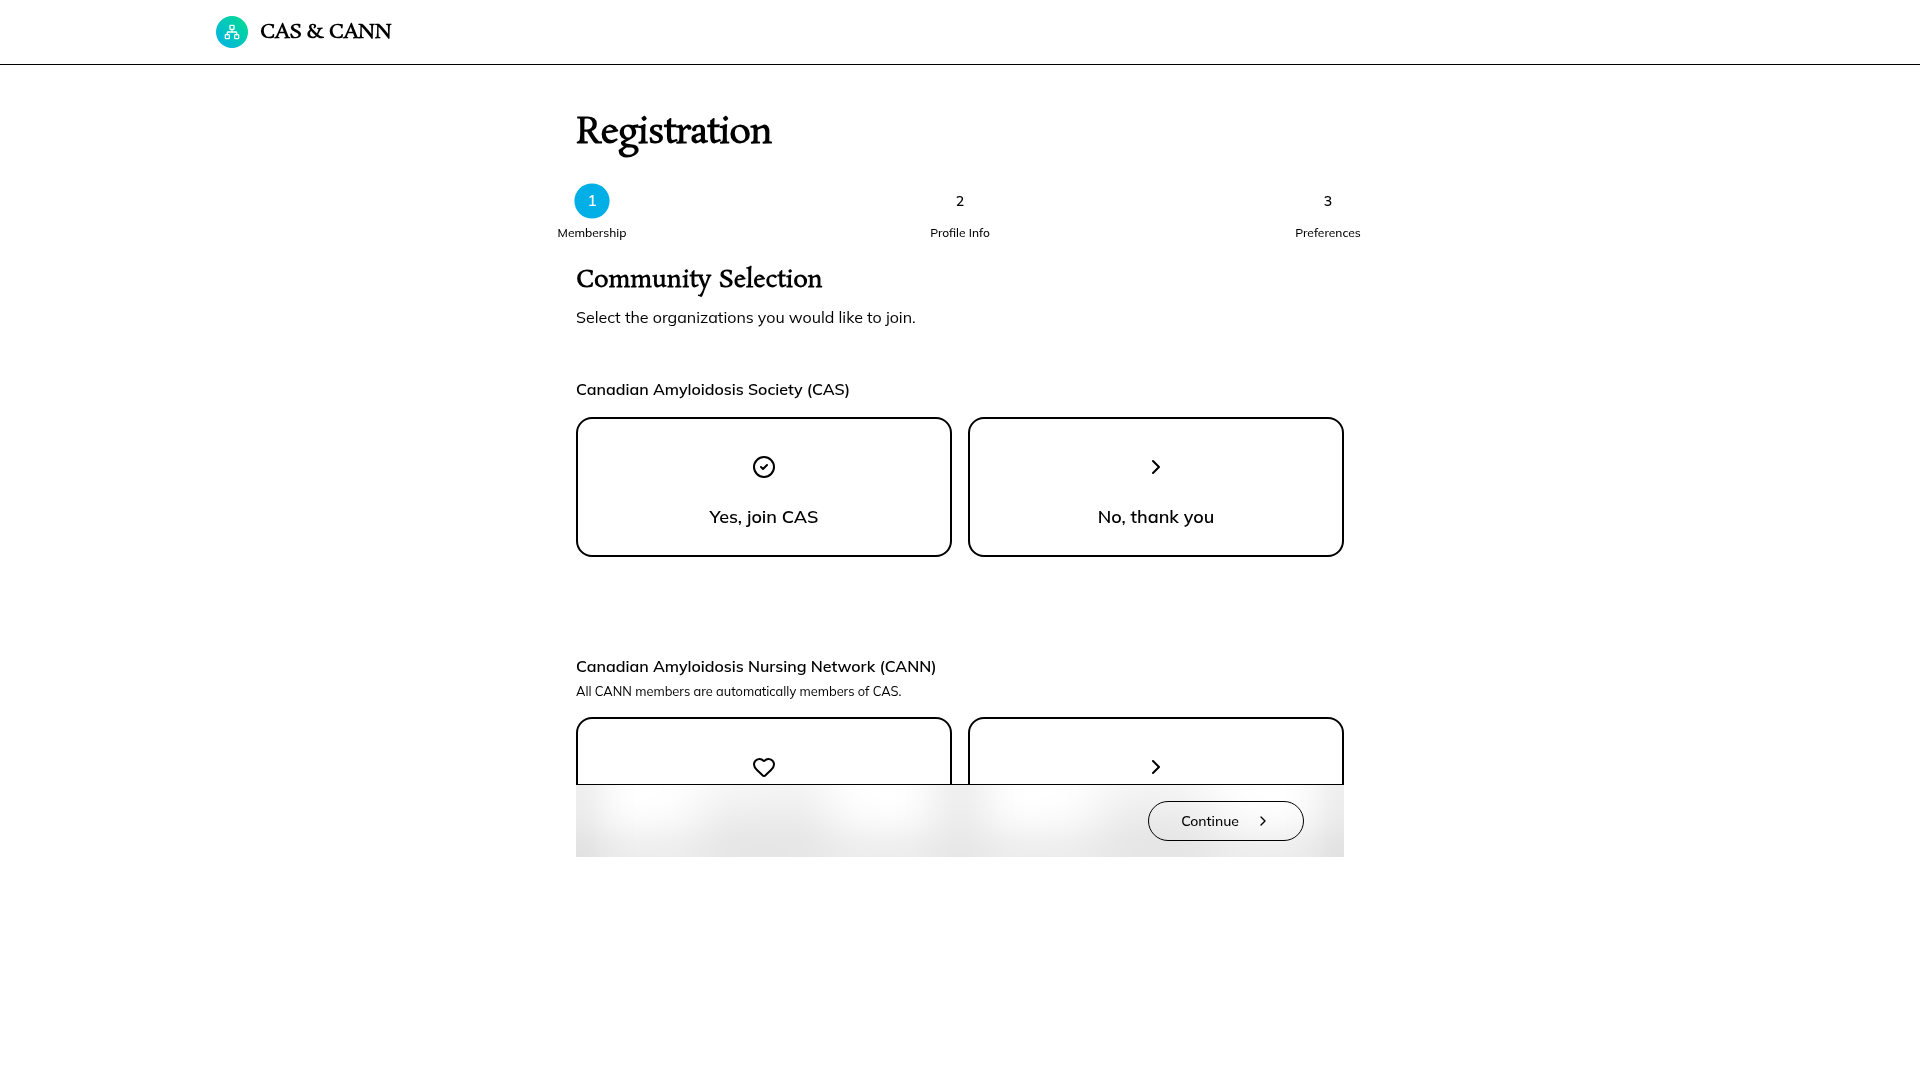
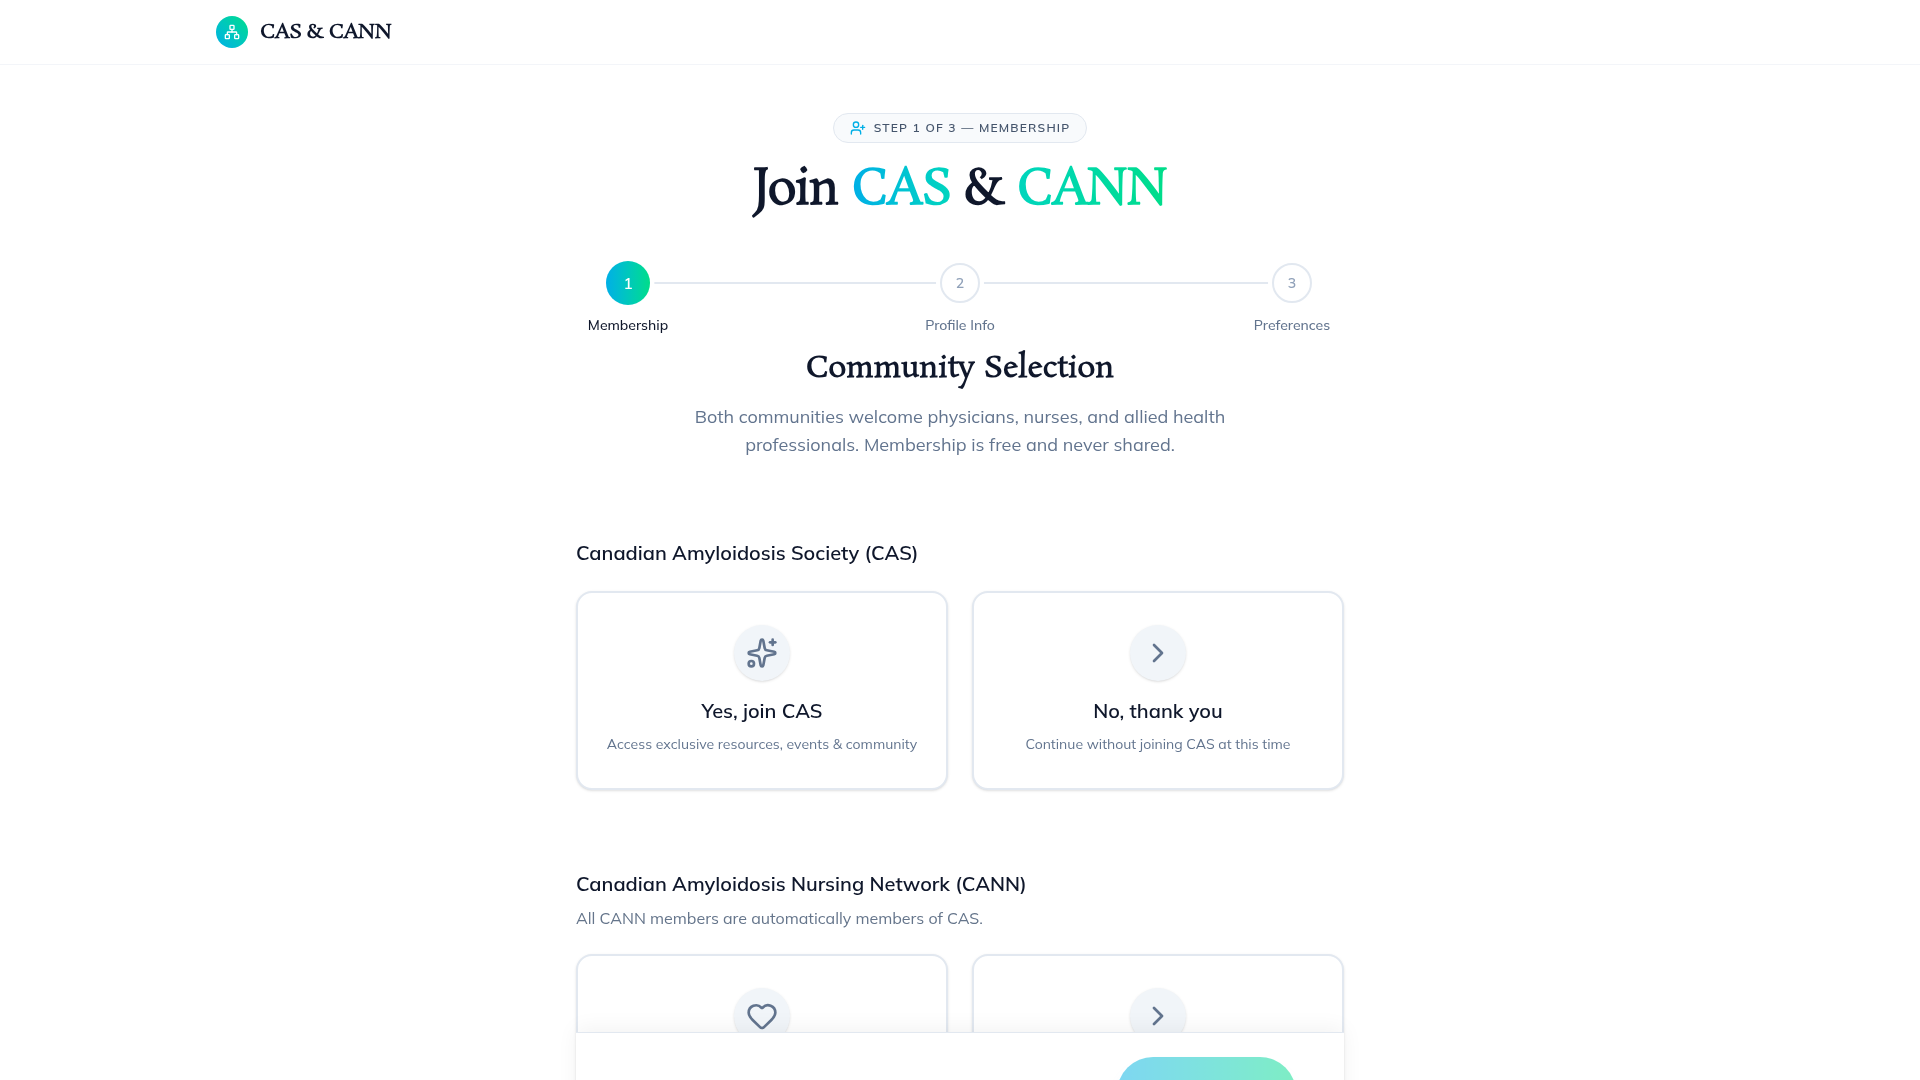
Apply light mode styling to improve visibility and enhance design elements
Force light mode styling and refine card and icon designs in the join CAS & CANN component.

Replit-Commit-Author: Agent
Replit-Commit-Session-Id: ef7bf022-0b3a-4156-9c38-2b98b837c1d1
Replit-Commit-Checkpoint-Type: full_checkpoint
Replit-Commit-Event-Id: ecc744e5-073c-49c3-9316-261ec8fd08b4
Replit-Commit-Screenshot-Url: https://storage.googleapis.com/screenshot-production-us-central1/e9fe007f-c11f-42ca-a1dd-347ccc032e17/ef7bf022-0b3a-4156-9c38-2b98b837c1d1/oIjj7CI
Replit-Helium-Checkpoint-Created: true

diff --git a/artifacts/mockup-sandbox/src/components/mockups/join-cas/Redesigned.tsx b/artifacts/mockup-sandbox/src/components/mockups/join-cas/Redesigned.tsx
@@ -142,12 +142,12 @@ export function Redesigned() {
       <Label
         htmlFor={`${field.name}-${value}`}
         className={cn(
-          "relative flex flex-col items-center p-6 border-2 rounded-2xl cursor-pointer transition-all duration-200 text-center gap-3",
+          "relative flex flex-col items-center py-8 px-6 border-2 rounded-2xl cursor-pointer transition-all duration-300 text-center gap-4",
           isSelected 
             ? brand === 'cann' 
-              ? "border-pink-500 bg-pink-50/50 dark:bg-pink-950/20" 
-              : "border-[#00AFE6] bg-[#00AFE6]/5 dark:bg-[#00AFE6]/10"
-            : "border-muted hover:border-muted-foreground/30 hover:bg-muted/50",
+              ? "border-transparent [background:linear-gradient(to_bottom,rgba(253,242,248,0.9),rgba(253,242,248,0.4))_padding-box,linear-gradient(to_right,#ec4899,#a855f7)_border-box] shadow-md" 
+              : "border-transparent [background:linear-gradient(to_bottom,rgba(230,248,255,0.9),rgba(240,251,255,0.4))_padding-box,linear-gradient(to_right,#00AFE6,#00DD89)_border-box] shadow-md"
+            : "border-slate-200 bg-white hover:border-slate-300 shadow-sm hover:shadow-md",
         )}
       >
         <FormControl>
@@ -155,25 +155,27 @@ export function Redesigned() {
         </FormControl>
         
         <div className={cn(
-          "p-3 rounded-full transition-colors",
+          "w-14 h-14 rounded-full flex items-center justify-center transition-colors shadow-sm",
           isSelected 
-            ? brand === 'cann' ? "bg-pink-100 text-pink-600 dark:bg-pink-900/50" : "bg-[#00AFE6]/10 text-[#00AFE6]"
-            : "bg-muted text-muted-foreground"
+            ? brand === 'cann' ? "bg-gradient-to-tr from-pink-500 to-purple-500 text-white" : "bg-gradient-to-tr from-[#00AFE6] to-[#00DD89] text-white"
+            : "bg-slate-100 text-slate-500"
         )}>
-          <Icon className="w-6 h-6" />
+          <Icon className="w-8 h-8" />
         </div>
         
         <div>
-          <div className="font-semibold text-lg">{title}</div>
-          {description && <div className="text-sm text-muted-foreground mt-1 font-normal">{description}</div>}
+          <div className="font-semibold text-xl text-slate-900">{title}</div>
+          {description && <div className="text-sm text-slate-500 mt-2 font-normal leading-relaxed">{description}</div>}
         </div>
 
         {isSelected && (
           <div className="absolute top-4 right-4">
-            <CheckCircle2 className={cn(
-              "w-5 h-5",
-              brand === 'cann' ? "text-pink-500" : "text-[#00AFE6]"
-            )} />
+            <div className={cn(
+              "rounded-full p-1",
+              brand === 'cann' ? "bg-pink-100 text-pink-500" : "bg-[#00AFE6]/10 text-[#00AFE6]"
+            )}>
+              <CheckCircle2 className="w-5 h-5" />
+            </div>
           </div>
         )}
       </Label>
@@ -181,7 +183,31 @@ export function Redesigned() {
   };
 
   return (
-    <div className="min-h-screen bg-background text-foreground selection:bg-[#00AFE6]/20">
+    <div
+      className="min-h-screen bg-white text-slate-900 selection:bg-[#00AFE6]/20"
+      style={{
+        colorScheme: 'light',
+        ['--background' as any]: '0 0% 100%',
+        ['--foreground' as any]: '222 47% 11%',
+        ['--card' as any]: '0 0% 100%',
+        ['--card-foreground' as any]: '222 47% 11%',
+        ['--muted' as any]: '210 40% 96%',
+        ['--muted-foreground' as any]: '215 16% 47%',
+        ['--border' as any]: '214 32% 91%',
+        ['--input' as any]: '214 32% 91%',
+        ['--ring' as any]: '195 100% 45%',
+        ['--primary' as any]: '195 100% 45%',
+        ['--primary-foreground' as any]: '0 0% 100%',
+        ['--secondary' as any]: '210 40% 96%',
+        ['--secondary-foreground' as any]: '222 47% 11%',
+        ['--accent' as any]: '210 40% 96%',
+        ['--accent-foreground' as any]: '222 47% 11%',
+        ['--destructive' as any]: '0 84% 60%',
+        ['--destructive-foreground' as any]: '0 0% 100%',
+        ['--popover' as any]: '0 0% 100%',
+        ['--popover-foreground' as any]: '222 47% 11%',
+      }}
+    >
       {/* Refined Header */}
       <header className="sticky top-0 z-50 bg-background/80 backdrop-blur-md border-b border-border/40">
         <div className="container mx-auto px-4 sm:px-6 h-16 flex items-center justify-between">
@@ -194,19 +220,25 @@ export function Redesigned() {
         </div>
       </header>
 
-      <main className="container mx-auto px-4 sm:px-6 py-12 pb-32">
+      <main className="container mx-auto px-4 sm:px-6 py-12 pb-48">
         <div className="max-w-3xl mx-auto">
           
           {/* Wizard Header */}
-          <div className="mb-12">
-            <h1 className="text-4xl font-rosarivo font-bold mb-4 tracking-tight">
-              Registration
+          <div className="mb-12 text-center">
+            <div className="inline-flex items-center gap-2 bg-slate-50 border border-slate-200 rounded-full px-4 py-1.5 mb-6">
+              <UserPlus className="w-4 h-4 text-[#00AFE6]" />
+              <span className="text-xs font-semibold uppercase tracking-widest text-slate-600">
+                Step {currentStep + 1} of {activeSteps.length} — {activeSteps[currentStep].title}
+              </span>
+            </div>
+            <h1 className="text-5xl font-rosarivo font-bold mb-4 tracking-tight">
+              Join <span className="bg-gradient-to-r from-[#00AFE6] to-teal-400 bg-clip-text text-transparent">CAS</span> &amp; <span className="bg-gradient-to-r from-teal-400 to-[#00DD89] bg-clip-text text-transparent">CANN</span>
             </h1>
             
             {/* Progress Stepper */}
-            <div className="mt-8">
+            <div className="mt-12 px-8">
               <div className="flex items-center justify-between relative">
-                <div className="absolute left-0 top-1/2 -translate-y-1/2 w-full h-[2px] bg-muted/60" />
+                <div className="absolute left-0 top-1/2 -translate-y-1/2 w-full h-[2px] bg-slate-200" />
                 <div 
                   className="absolute left-0 top-1/2 -translate-y-1/2 h-[2px] bg-gradient-to-r from-[#00AFE6] to-[#00DD89] transition-all duration-500"
                   style={{ width: `${(currentStep / (activeSteps.length - 1)) * 100}%` }}
@@ -217,18 +249,18 @@ export function Redesigned() {
                   const isCompleted = index < currentStep;
                   
                   return (
-                    <div key={step.id} className="relative z-10 flex flex-col items-center gap-2">
+                    <div key={step.id} className="relative z-10 flex flex-col items-center gap-3">
                       <div className={cn(
-                        "w-8 h-8 rounded-full flex items-center justify-center text-sm font-semibold transition-all duration-300 ring-4 ring-background",
-                        isActive ? "bg-[#00AFE6] text-white shadow-md shadow-[#00AFE6]/20 scale-110" : 
+                        "w-10 h-10 rounded-full flex items-center justify-center text-sm font-semibold transition-all duration-300 ring-4 ring-white shadow-sm",
+                        isActive ? "bg-gradient-to-r from-[#00AFE6] to-[#00DD89] text-white scale-110 shadow-[#00AFE6]/25" : 
                         isCompleted ? "bg-[#00DD89] text-white" : 
-                        "bg-muted text-muted-foreground"
+                        "bg-white border-2 border-slate-200 text-slate-400"
                       )}>
-                        {isCompleted ? <CheckCircle className="w-4 h-4" /> : index + 1}
+                        {isCompleted ? <CheckCircle className="w-5 h-5" /> : index + 1}
                       </div>
                       <span className={cn(
-                        "text-xs font-medium absolute -bottom-6 w-max text-center transition-colors",
-                        isActive ? "text-foreground" : "text-muted-foreground"
+                        "text-sm font-medium absolute -bottom-8 w-max text-center transition-colors",
+                        isActive ? "text-slate-900" : "text-slate-500"
                       )}>
                         {step.title}
                       </span>
@@ -254,37 +286,39 @@ export function Redesigned() {
                   
                   {/* STEP 1: MEMBERSHIP */}
                   {currentStep === 0 && (
-                    <div className="space-y-12">
-                      <div className="space-y-2">
-                        <h2 className="text-2xl font-rosarivo font-semibold">Community Selection</h2>
-                        <p className="text-muted-foreground">Select the organizations you would like to join.</p>
+                    <div className="space-y-20">
+                      <div className="space-y-4">
+                        <h2 className="text-3xl font-rosarivo font-bold text-center">Community Selection</h2>
+                        <p className="text-slate-500 text-center max-w-xl mx-auto text-lg">Both communities welcome physicians, nurses, and allied health professionals. Membership is free and never shared.</p>
                       </div>
 
                       <FormField
                         control={form.control}
                         name="wantsMembership"
                         render={({ field }) => (
-                          <FormItem className="space-y-4">
-                            <FormLabel className="text-base font-semibold flex items-center gap-2">
+                          <FormItem className="space-y-6">
+                            <FormLabel className="text-xl font-semibold flex items-center gap-2 text-slate-900">
                               Canadian Amyloidosis Society (CAS)
                             </FormLabel>
                             <FormControl>
                               <RadioGroup
                                 onValueChange={field.onChange}
                                 defaultValue={field.value}
-                                className="grid grid-cols-1 sm:grid-cols-2 gap-4"
+                                className="grid grid-cols-1 sm:grid-cols-2 gap-6"
                               >
                                 <SelectionCard 
                                   field={field} 
                                   value="Yes" 
-                                  icon={CheckCircle2} 
+                                  icon={Sparkles} 
                                   title="Yes, join CAS" 
+                                  description="Access exclusive resources, events & community"
                                 />
                                 <SelectionCard 
                                   field={field} 
                                   value="No" 
                                   icon={ChevronRight} 
                                   title="No, thank you" 
+                                  description="Continue without joining CAS at this time"
                                 />
                               </RadioGroup>
                             </FormControl>
@@ -293,18 +327,16 @@ export function Redesigned() {
                         )}
                       />
 
-                      <div className="w-full h-px bg-border/40" />
-
                       <FormField
                         control={form.control}
                         name="wantsCANNMembership"
                         render={({ field }) => (
-                          <FormItem className="space-y-4">
-                            <div className="space-y-1">
-                              <FormLabel className="text-base font-semibold flex items-center gap-2">
+                          <FormItem className="space-y-6">
+                            <div className="space-y-2">
+                              <FormLabel className="text-xl font-semibold flex items-center gap-2 text-slate-900">
                                 Canadian Amyloidosis Nursing Network (CANN)
                               </FormLabel>
-                              <FormDescription>
+                              <FormDescription className="text-base">
                                 All CANN members are automatically members of CAS.
                               </FormDescription>
                             </div>
@@ -312,13 +344,14 @@ export function Redesigned() {
                               <RadioGroup
                                 onValueChange={field.onChange}
                                 defaultValue={field.value}
-                                className="grid grid-cols-1 sm:grid-cols-2 gap-4"
+                                className="grid grid-cols-1 sm:grid-cols-2 gap-6"
                               >
                                 <SelectionCard 
                                   field={field} 
                                   value="Yes" 
                                   icon={Heart} 
                                   title="Yes, join CANN" 
+                                  description="Join the national nursing network for amyloidosis"
                                   brand="cann"
                                 />
                                 <SelectionCard 
@@ -326,6 +359,7 @@ export function Redesigned() {
                                   value="No" 
                                   icon={ChevronRight} 
                                   title="No, thank you" 
+                                  description="Continue without joining CANN at this time"
                                 />
                               </RadioGroup>
                             </FormControl>
@@ -650,7 +684,7 @@ export function Redesigned() {
               </AnimatePresence>
 
               {/* Navigation Controls */}
-              <div className="fixed bottom-0 left-0 right-0 p-4 bg-background/80 backdrop-blur-xl border-t z-40">
+              <div className="fixed bottom-0 left-0 right-0 p-6 bg-white border-t border-slate-200 shadow-[0_-4px_20px_rgba(0,0,0,0.05)] z-50">
                 <div className="container mx-auto px-4 sm:px-6 max-w-3xl flex justify-between items-center gap-4">
                   {currentStep > 0 ? (
                     <Button 
@@ -670,9 +704,9 @@ export function Redesigned() {
                   {currentStep < activeSteps.length - 1 ? (
                     <Button 
                       type="button" 
-                      size="lg"
                       onClick={nextStep}
-                      className="rounded-full px-8 bg-foreground hover:bg-foreground/90 text-background"
+                      disabled={currentStep === 0 && (wantsMembership === undefined || wantsCANNMembership === undefined)}
+                      className="bg-gradient-to-r from-[#00AFE6] to-[#00DD89] text-white px-10 py-6 text-base font-semibold rounded-full shadow-lg shadow-[#00AFE6]/25 hover:shadow-xl transition-all border-0 disabled:opacity-50 disabled:cursor-not-allowed"
                     >
                       Continue
                       <ChevronRight className="w-4 h-4 ml-2" />
@@ -680,9 +714,8 @@ export function Redesigned() {
                   ) : (
                     <Button 
                       type="submit" 
-                      size="lg"
                       disabled={isSubmitting}
-                      className="rounded-full px-8 bg-gradient-to-r from-[#00AFE6] to-[#00DD89] hover:opacity-90 text-white font-medium border-0"
+                      className="bg-gradient-to-r from-[#00AFE6] to-[#00DD89] text-white px-10 py-6 text-base font-semibold rounded-full shadow-lg shadow-[#00AFE6]/25 hover:shadow-xl transition-all border-0 disabled:opacity-50 disabled:cursor-not-allowed"
                     >
                       {isSubmitting ? "Submitting..." : "Submit Registration"}
                     </Button>
